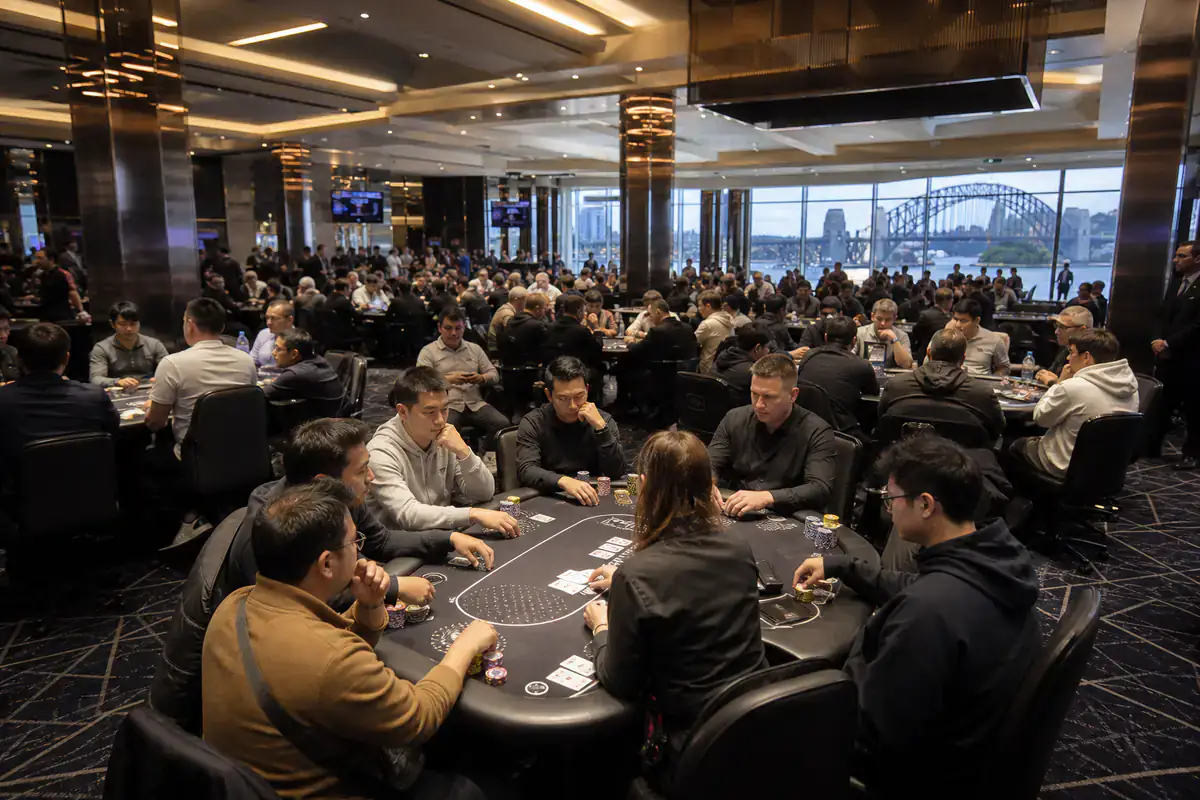
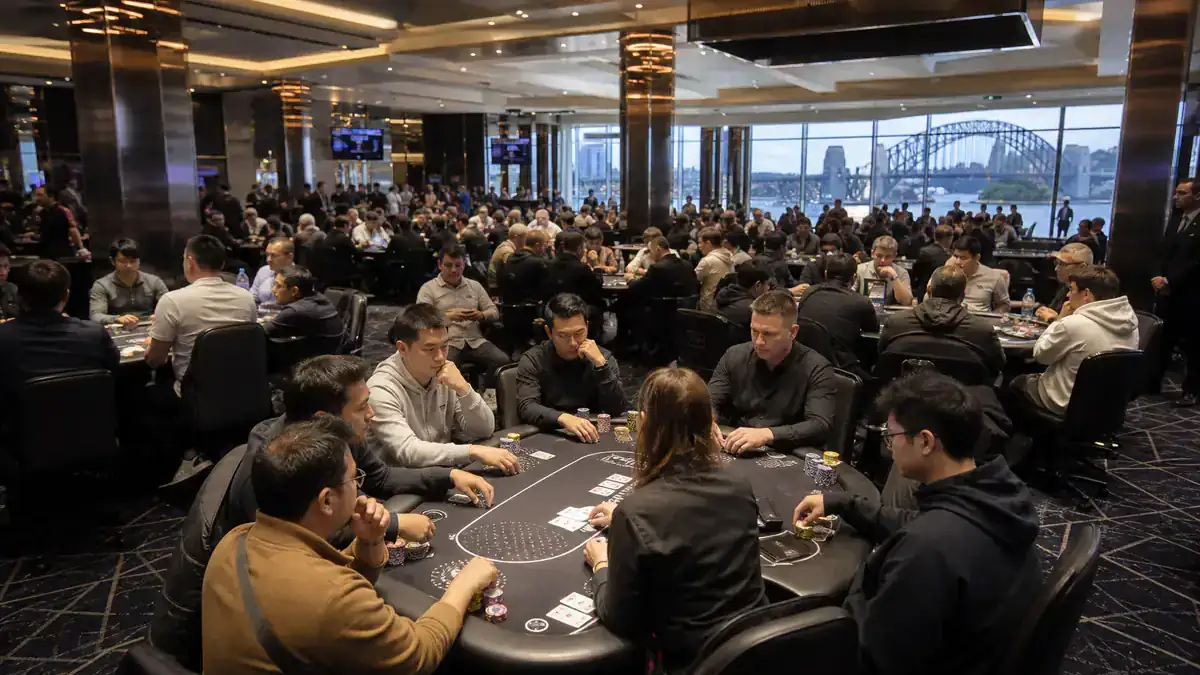
seo+fix(en-wpt-australia-2026): 웹검증 날짜정정 + 마크다운표 복구 + 트슬래시 + 속도
- ★사실정정(웹검증): WPT Australia Championship 날짜 Sep 23–30 → **Sep 24–30**(4곳)
  · WPT 공식·PokerTube 등 복수소스 확인. $10K High Roller가 Sep 23–24라 Championship은 24 시작
  · Prime Sep17-22·Ladies Sep15-16 $500·Aus Poker Cup $1,150·36 events·듀얼챔프 첫도입 전부 재확인 일치
- 마크다운 버그 복구: 비자 표가 `||`+구분행 누락으로 깨져 렌더 → 정상 표로 복구
- trailing slash 3개 제거(holdem-tournament·ept-barcelona·tournament-vs-cash → 301 방지)
- 속도: 히어로(LCP) 92.1KB·floor 88.7KB가 상한초과 → 1200×675 스펙 리사이즈로 74.7/76.3KB(예산내). raw img 없음(마크다운만)
- updated 2026-07-03

diff --git a/lib/posts-en/wpt-australia-2026-guide.ts b/lib/posts-en/wpt-australia-2026-guide.ts
@@ -5,10 +5,10 @@ export const POST: Post = {
   title: "WPT Australia 2026 — Complete Player Guide: Schedule, Satellites & Real Costs",
   seoTitle: "First Time at WPT Australia? Everything You Need to Play in 2026",
   desc: "WPT Australia 2026 — Sep 10–30, The Star Sydney. AUD $1,500 Prime + AUD $5,000 Championship. Satellite from AUD ~$255. Real trip costs rivals don't publish.",
-  tldr: "WPT Australia 2026: Sep 10–30, The Star Sydney. Two flagships: AUD $1,500 WPT Prime (Sep 17–22) and AUD $5,000 WPT Championship (Sep 23–30). On-site satellites from AUD ~$255. Winner gets extra $10,400 WPT World Championship seat. Must be 18+, Star Club member, and smart-casual dress enforced.",
+  tldr: "WPT Australia 2026: Sep 10–30, The Star Sydney. Two flagships: AUD $1,500 WPT Prime (Sep 17–22) and AUD $5,000 WPT Championship (Sep 24–30). On-site satellites from AUD ~$255. Winner gets extra $10,400 WPT World Championship seat. Must be 18+, Star Club member, and smart-casual dress enforced.",
   category: "초보 가이드",
   date: "2026-06-18",
-  updated: "2026-06-18",
+  updated: "2026-07-03",
   readTime: "14 min",
   emoji: "🦘",
   layout: "tournament-guide",
@@ -35,7 +35,7 @@ This guide covers everything competitors skip.
 ---
 
 > **Quick Answer**
-> WPT Australia 2026 is ==**Sep 10–30**== at The Star Sydney, Darling Harbour. Two championship events: ==**AUD $1,500 WPT Prime**== (Sep 17–22) and ==**AUD $5,000 WPT Australia Championship**== (Sep 23–30). Championship winner also receives a ==g:$10,400 seat to WPT World Championship at Wynn Las Vegas== in December. ==r:WPT Global does NOT operate in Australia — on-site satellites only.==
+> WPT Australia 2026 is ==**Sep 10–30**== at The Star Sydney, Darling Harbour. Two championship events: ==**AUD $1,500 WPT Prime**== (Sep 17–22) and ==**AUD $5,000 WPT Australia Championship**== (Sep 24–30). Championship winner also receives a ==g:$10,400 seat to WPT World Championship at Wynn Las Vegas== in December. ==r:WPT Global does NOT operate in Australia — on-site satellites only.==
 
 ---
 
@@ -71,7 +71,7 @@ This is the question every first-timer asks. Here's the honest breakdown:
 
 | | WPT Prime Australia | WPT Australia Championship |
 |:---:|---|---|
-| Dates | ==**Sep 17–22**== | ==**Sep 23–30**== |
+| Dates | ==**Sep 17–22**== | ==**Sep 24–30**== |
 | Buy-In | ==g:AUD $1,500== (~USD $980) | AUD $5,000 (~USD $3,270) |
 | Field Size (est.) | 500–800 entries | 400–600 entries |
 | Structure | Deep-stack, multi-flight | Deep-stack, 3 flights |
@@ -125,7 +125,7 @@ If you're outside Australia and want to warm up with online satellites before fl
 | **WPT Prime Australia Championship** | ==**Sep 17–22**== | ==**$1,500**== | ==g:Livestreamed FT== |
 | Bonzai Bounty | Sep 19 | $460 | Progressive bounty |
 | **$10K WPT High Roller** | Sep 23–24 | $10,000 | High roller |
-| **WPT Australia Championship** | ==**Sep 23–30**== | ==**$5,000**== | ==g:Livestreamed FT== |
+| **WPT Australia Championship** | ==**Sep 24–30**== | ==**$5,000**== | ==g:Livestreamed FT== |
 | Mini-Championship | Sep 27–28 | $2,000 | 2-day format |
 | WPT World Champs Warm-Up | Sep 29–30 | $1,150 | Warm-up for Dec WC |
 | Australian PLO Championship | Sep 29–30 | $5,000 | Pot Limit Omaha |
@@ -245,9 +245,10 @@ Most international visitors need either an **ETA (Electronic Travel Authority)**
 <div style="background:rgba(255,248,210,0.08);border:1px solid rgba(255,240,180,0.25);border-radius:14px;padding:4px 20px 20px;margin:24px 0">
 
 | Passport | Visa Type | How to Apply | Cost | Processing |
-|| **UK + 35 EU/European countries** (Germany, France, Italy, Spain, etc.) | ==g:eVisitor (subclass 651)== | [immi.homeaffairs.gov.au](https://immi.homeaffairs.gov.au) | ==g:**FREE**== | Usually instant-1 day |
-|| **USA, Canada, Japan, Korea, Singapore, Hong Kong** | ETA (subclass 601) | [Australian ETA app](https://eta.homeaffairs.gov.au) (mobile only) | AUD $20 | Usually instant |
-|| Most other countries | Visitor Visa (subclass 600) | [immi.homeaffairs.gov.au](https://immi.homeaffairs.gov.au) | AUD $200 | Days-weeks |
+|---|---|---|---|---|
+| **UK + 35 EU/European countries** (Germany, France, Italy, Spain, etc.) | ==g:eVisitor (subclass 651)== | [immi.homeaffairs.gov.au](https://immi.homeaffairs.gov.au) | ==g:**FREE**== | Usually instant-1 day |
+| **USA, Canada, Japan, Korea, Singapore, Hong Kong** | ETA (subclass 601) | [Australian ETA app](https://eta.homeaffairs.gov.au) (mobile only) | AUD $20 | Usually instant |
+| Most other countries | Visitor Visa (subclass 600) | [immi.homeaffairs.gov.au](https://immi.homeaffairs.gov.au) | AUD $200 | Days-weeks |
 
 
 
@@ -306,17 +307,17 @@ A. Yes. The Star Poker room runs cash games daily ==g:10 AM – 4 AM==, stakes f
 ## Related Guides
 
 <div style="display:grid;grid-template-columns:repeat(auto-fit,minmax(220px,1fr));gap:14px;margin:24px 0">
-  <a href="/en/blog/holdem-tournament/" style="display:block;padding:16px 18px;background:rgba(255,255,255,0.04);border:1px solid rgba(255,255,255,0.10);border-radius:12px;text-decoration:none;transition:border-color 0.2s" onmouseover="this.style.borderColor='rgba(212,175,55,0.45)'" onmouseout="this.style.borderColor='rgba(255,255,255,0.10)'">
+  <a href="/en/blog/holdem-tournament" style="display:block;padding:16px 18px;background:rgba(255,255,255,0.04);border:1px solid rgba(255,255,255,0.10);border-radius:12px;text-decoration:none;transition:border-color 0.2s" onmouseover="this.style.borderColor='rgba(212,175,55,0.45)'" onmouseout="this.style.borderColor='rgba(255,255,255,0.10)'">
     <div style="font-size:11px;font-weight:700;letter-spacing:0.08em;text-transform:uppercase;color:var(--primary);margin-bottom:6px">Must Read</div>
     <div style="font-size:14px;font-weight:700;color:var(--foreground);line-height:1.4">How Poker Tournaments Work</div>
     <div style="font-size:12px;color:var(--muted-foreground);margin-top:4px">Buy-ins, blinds, satellites & Day-1 checklist</div>
   </a>
-  <a href="/en/blog/ept-barcelona-2026-guide/" style="display:block;padding:16px 18px;background:rgba(255,255,255,0.04);border:1px solid rgba(255,255,255,0.10);border-radius:12px;text-decoration:none;transition:border-color 0.2s" onmouseover="this.style.borderColor='rgba(212,175,55,0.45)'" onmouseout="this.style.borderColor='rgba(255,255,255,0.10)'">
+  <a href="/en/blog/ept-barcelona-2026-guide" style="display:block;padding:16px 18px;background:rgba(255,255,255,0.04);border:1px solid rgba(255,255,255,0.10);border-radius:12px;text-decoration:none;transition:border-color 0.2s" onmouseover="this.style.borderColor='rgba(212,175,55,0.45)'" onmouseout="this.style.borderColor='rgba(255,255,255,0.10)'">
     <div style="font-size:11px;font-weight:700;letter-spacing:0.08em;text-transform:uppercase;color:var(--primary);margin-bottom:6px">Compare</div>
     <div style="font-size:14px;font-weight:700;color:var(--foreground);line-height:1.4">EPT Barcelona 2026 Guide</div>
     <div style="font-size:12px;color:var(--muted-foreground);margin-top:4px">Europe's biggest summer poker festival</div>
   </a>
-  <a href="/en/blog/holdem-tournament-vs-cash-game/" style="display:block;padding:16px 18px;background:rgba(255,255,255,0.04);border:1px solid rgba(255,255,255,0.10);border-radius:12px;text-decoration:none;transition:border-color 0.2s" onmouseover="this.style.borderColor='rgba(212,175,55,0.45)'" onmouseout="this.style.borderColor='rgba(255,255,255,0.10)'">
+  <a href="/en/blog/holdem-tournament-vs-cash-game" style="display:block;padding:16px 18px;background:rgba(255,255,255,0.04);border:1px solid rgba(255,255,255,0.10);border-radius:12px;text-decoration:none;transition:border-color 0.2s" onmouseover="this.style.borderColor='rgba(212,175,55,0.45)'" onmouseout="this.style.borderColor='rgba(255,255,255,0.10)'">
     <div style="font-size:11px;font-weight:700;letter-spacing:0.08em;text-transform:uppercase;color:var(--primary);margin-bottom:6px">Start Here</div>
     <div style="font-size:14px;font-weight:700;color:var(--foreground);line-height:1.4">Tournament vs Cash Game</div>
     <div style="font-size:12px;color:var(--muted-foreground);margin-top:4px">Which format fits your style?</div>